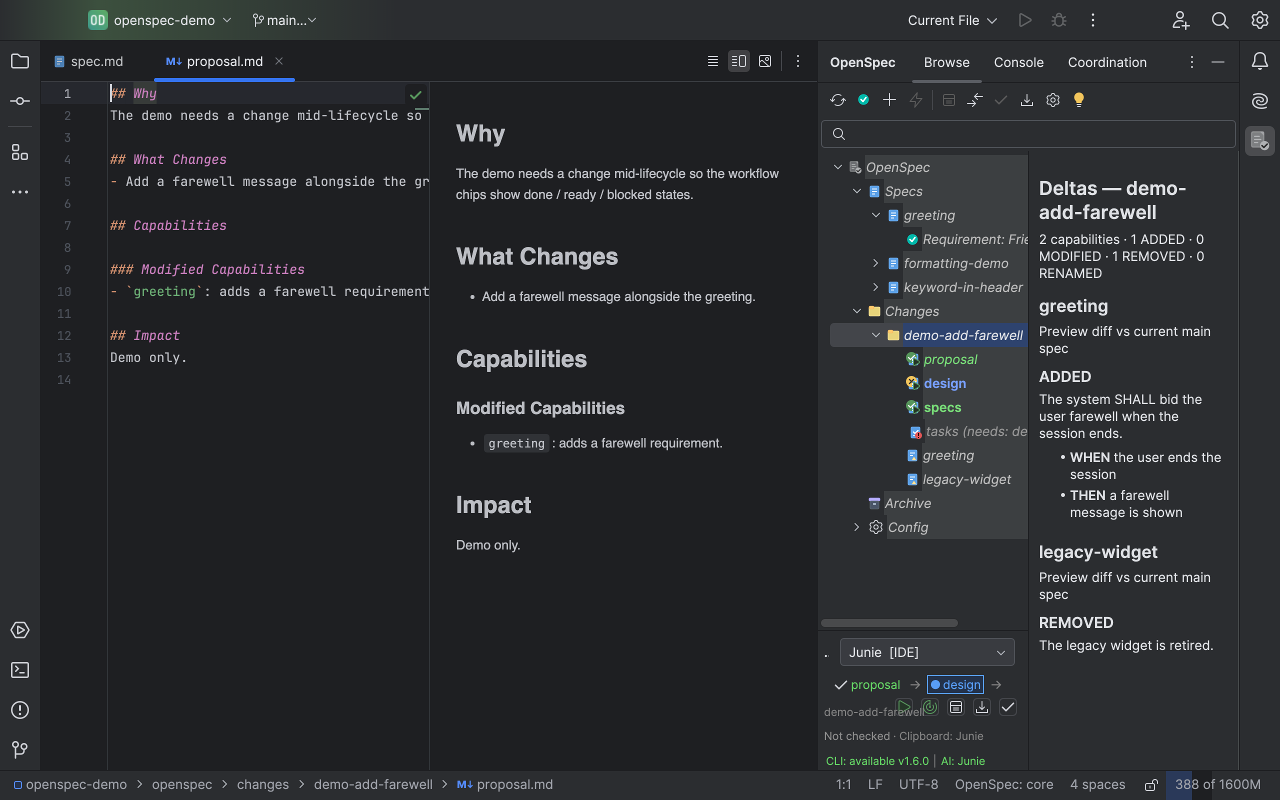
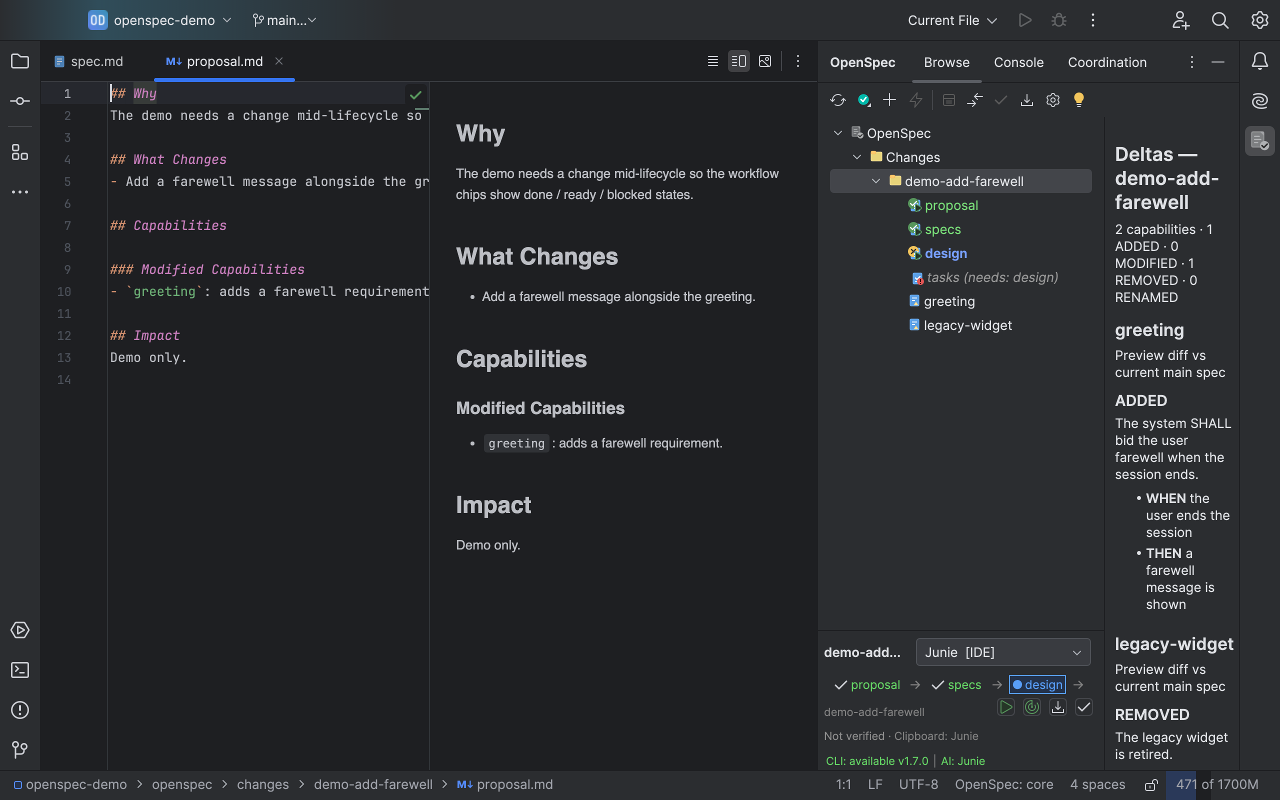
docs(screenshots): regenerate marketplace tour for the v0.7.0 restructure
Regenerate the 8 current tour shots against the Changes-focused tool
window (name-first change nodes, consolidated deltas, Search Everywhere,
CLI 1.7.0). Retire shot 07 (spec-preview) — the in-panel Specs tree +
plain-spec preview pane were removed in the restructure. Point the
listing's recommended-shots note at 01-spec-browser.

diff --git a/docs/marketplace-page.md b/docs/marketplace-page.md
@@ -189,7 +189,7 @@ Spec-Driven Development, OpenSpec, AI Integration, Code Generation, Requirements
 
 The tour shots live in [`docs/screenshots/`](screenshots/) — regenerate them with `./gradlew screenshotTour`. Recommended 4-5 for the listing (lead with the viewing/intelligence visuals):
 
-1. **Spec preview** (`07-spec-preview`) — the master/detail Browse tab: tree beside the rendered-markdown preview pane
+1. **Spec + change overview** (`01-spec-browser`) — a spec open in the editor with Markdown preview, beside the Changes-focused Browse tree and its consolidated change-deltas
 2. **Change deltas** (`08-change-deltas`) — the consolidated deltas view, grouped by capability/operation with badges
 3. **Tree badges** (`09-tree-badges`) — a change expanded showing artifact-status badge overlays (done / ready / blocked, X/Y progress)
 4. **Validation console** (`10-validation-console`) — grouped-by-file results with file:line links and per-severity coloring
